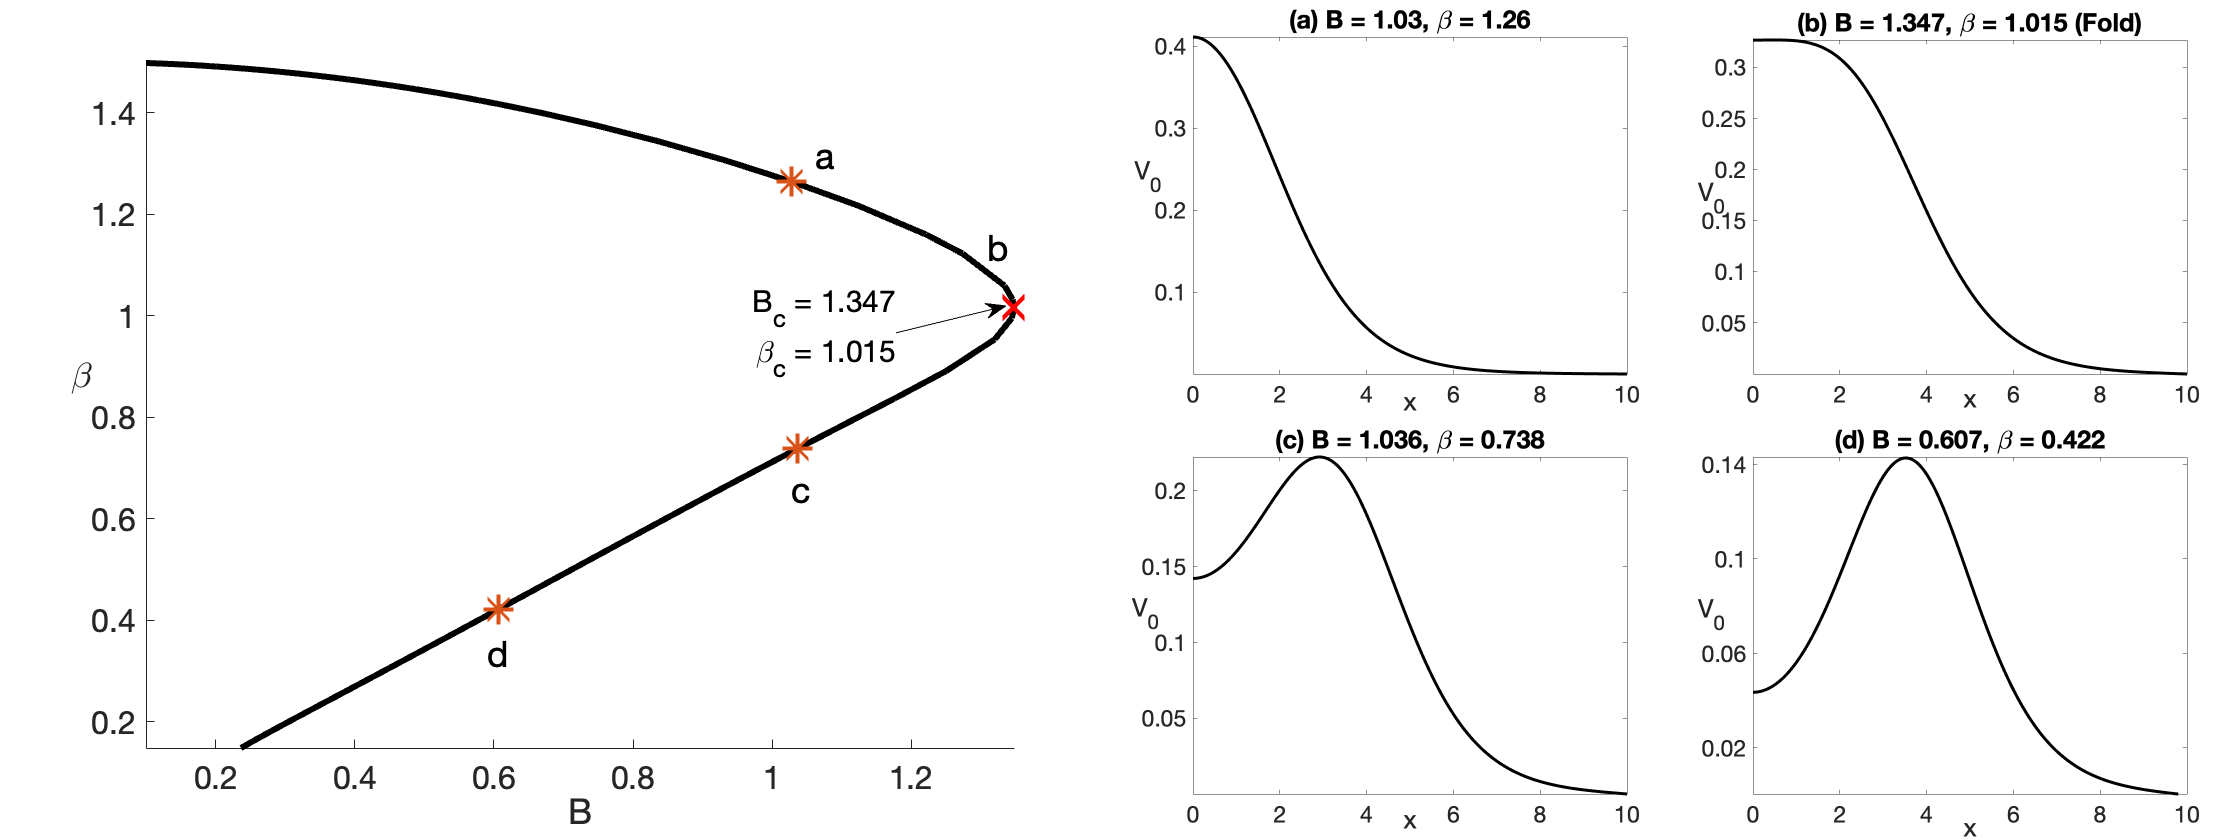
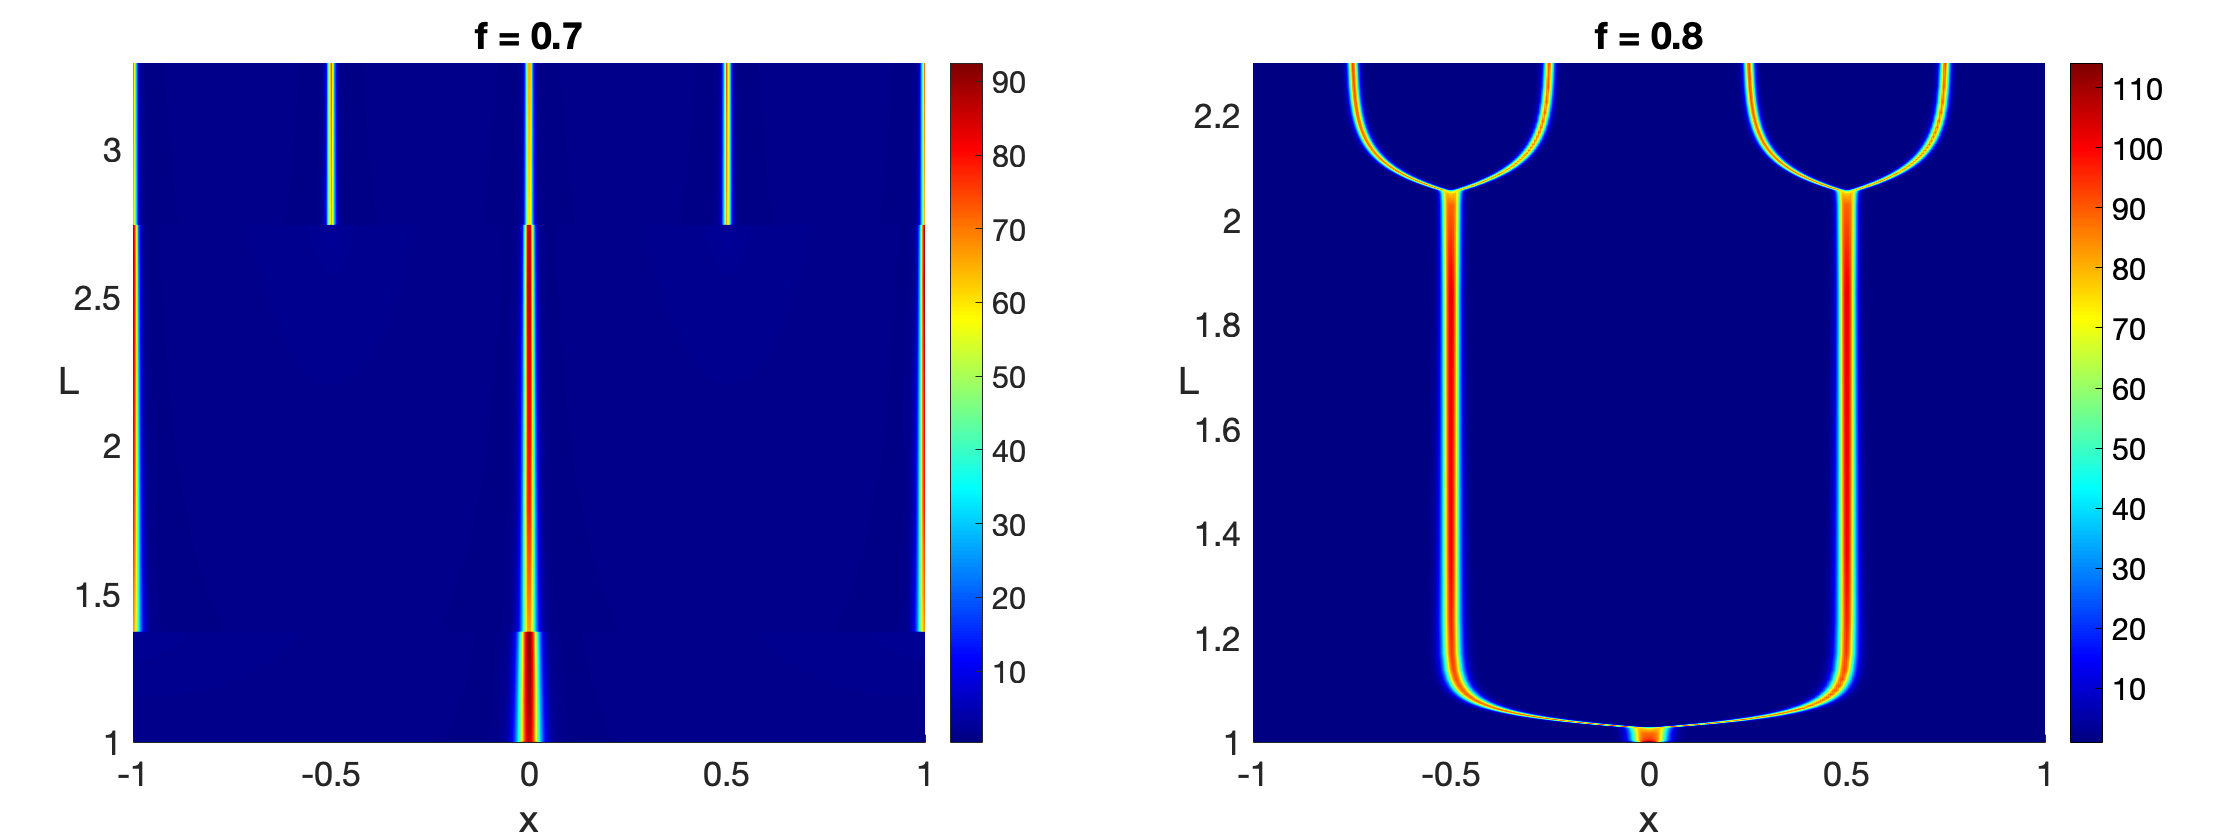
Adding images

diff --git a/_publications/Chunyi.md b/_publications/Chunyi.md
@@ -12,4 +12,13 @@ paperurl: 'https://link.springer.com/article/10.1007/s11538-025-01418-0'
 preprinturl: 'https://arxiv.org/abs/2411.00763'
 citation: 'Gai, C., Villar-Sepúlveda, E., Champneys, A. R., & Ward, M. J. (2025). An asymptotic analysis of spike self-replication and spike nucleation of reaction-diffusion patterns on growing 1-D domains. Bulletin of Mathematical Biology, 87(4), 48.'
 ---
+
+<figure>
+  <img
+    src="/images/publications/Chunyi.png"
+    alt="Time-dependent simulations of the Brusselator."
+    style="width: 100%; height: auto;">
+  <figcaption>Time-dependent simulations of the Brusselator as the domain half-length slowly increases. Color plot of the magnitude of the solution $v$ is plotted as a function of $L$, which measures time. Left panel: Spike nucleation occurs as $L$ increases. Right panel: Spike self-replication occurs as $L$ increases.</figcaption>
+</figure>
+
 **Abstract.** In the asymptotic limit of a large diffusivity ratio, certain two-component reaction-diffusion (RD) systems can admit localized spike solutions on a one-dimensional finite domain in a far-from-equilibrium nonlinear regime. It is known that two distinct bifurcation mechanisms can occur which generate spike patterns of increased spatial complexity as the domain half-length $L$ slowly increases; so-called spike nucleation and spike self-replication. Self-replication is found to occur via the passage beyond a saddle-node bifurcation point that can be predicted through linearization around the inner spike profile. In contrast, spike nucleation occurs through slow passage beyond the saddle-node of a nonlinear boundary-value problem defined in the outer region away from the core of a spike. Here, by treating $L$ as a static parameter under the Lagrangian framework, precise conditions are established within the semi-strong interaction asymptotic regime to determine which occurs, conditions that are confirmed by numerical simulation and continuation. For the Schnakenberg and Brusselator RD models, phase diagrams in parameter space are derived that predict whether spike self-replication or spike nucleation will occur first as $L$ is increased, or whether no such instability will occur. For the Gierer-Meinhardt model with a non-trivial activator background, spike nucleation is shown to be the only possible spike-generating mechanism. From time-dependent PDE numerical results on an exponentially slowly growing domain, it is shown that the analytical thresholds derived from the asymptotic theory accurately predict critical values of $L$ where either spike self-replication or spike-nucleation will occur. The global bifurcation mechanism for transitions to patterns of increased spatial complexity is further elucidated by superimposing time-dependent PDE simulation results on the numerically computed solution branches of spike equilibria in which $L$ is the primary bifurcation parameter.
